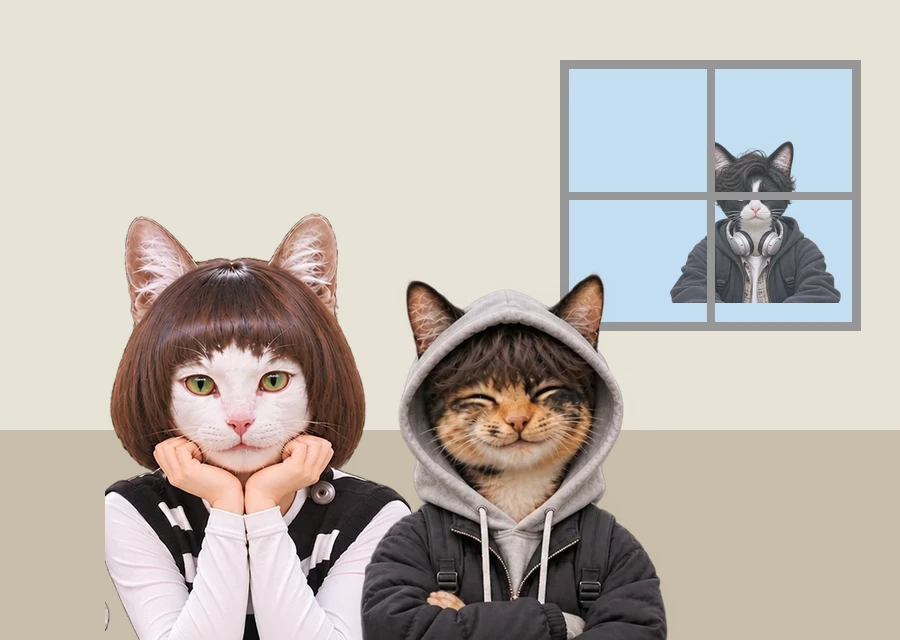
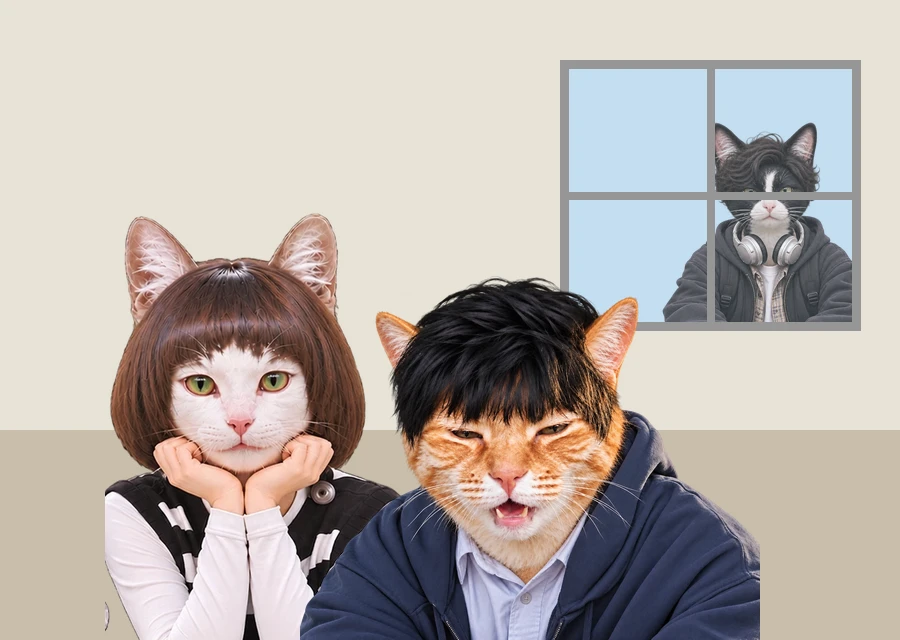
시유 원래 이미지 복구, 새 이미지는 신전이로 / 시혁 크기·원경·두 사람 이미지 새로, 단체 사진 시혁 위치 / 장소 정보 목록(인사례·린튼·쪽문·56주년), 린튼공원 설명 / 4남매 크게 / 미니게임 경고 고정
Claude-Session: https://claude.ai/code/session_01QyUschkezPNteRQgoBSBiz

Changed region(s): [[0.3111, 0.1875, 0.9644, 1.0]]

diff --git a/src/data/m56Scene.js b/src/data/m56Scene.js
@@ -4,6 +4,7 @@ const T = 'talk/'
 const M = `${T}m56/`
 
 const W = (s) => ({ wait: s })
+const pose = (who, p, dur = 0.3) => ({ pose: who, p, dur })
 const show = (who, o = {}) => ({ show: who, pose: 'base', ...o })
 const hide = (who, o = {}) => ({ hide: who, ...o })
 const cam = (o) => ({ cam: o })
@@ -45,7 +46,8 @@ export const M56 = {
   startBg: 'gate',
   cast: {
     // 화면 오른쪽, 기념관 입구 근처에 앉아 있음
-    jeon: { name: '신전이', title: '56주년 기념관 앞 대선배 · 학번 비공개', folder: `${M}jeon/`, fallback: `${M}jeon.webp`, x: 380, bottom: 170, w: 360 },
+    // 새 신전이 (정면 · 미소 · 씁쓸 — 파일 이름은 '시유…'로 올라온 이미지)
+    jeon: { name: '신전이', title: '56주년 기념관 앞 대선배 · 학번 비공개', folder: `${M}jeon/`, ext: 'webp', fallback: `${M}jeon.webp`, x: 400, bottom: 120, w: 520 },
   },
   walkers: [
     { src: `${T}hall/npc1.webp`, h: 230, bottom: 300, dur: 22, delay: -6, dir: 1 },
@@ -99,14 +101,14 @@ export const M56 = {
       before: [cam({ zoom: 1.16, on: 'jeon', dur: 0.8, wait: false })],
     },
     { who: 'me', text: '혹시… 선배님이세요?' },
-    { who: 'jeon', text: '대선배지.' },
+    { who: 'jeon', text: '대선배지.', before: [pose('jeon', 'smile')] },
     { who: 'jeon', text: '예전엔 나 보러 일부러 찾아오는 애들도 많았어. 사진도 찍어 가고, 간식도 주고.' },
     { who: 'me', text: '네? 왜요?' },
-    { who: 'jeon', text: '내가 인기가 좀 많아.' },
+    { who: 'jeon', text: '내가 인기가 좀 많아.', before: [pose('jeon', 'smile')] },
     { who: 'me', text: '(…스스로 저렇게 말하는 사람은 처음 봐.)' },
     { who: 'jeon', text: '출석률은 또 얼마나 좋은데. 비가 와도 눈이 와도 매일 여기 있었어.' },
     { who: 'me', text: '…학점은요?' },
-    { who: 'jeon', text: '그건 별개지.', after: [W(0.8)] },
+    { who: 'jeon', text: '그건 별개지.', before: [pose('jeon', 'smile')], after: [W(0.8)] },
     { who: 'me', text: '(출석률이랑 학점은 별개구나….)' },
 
     // ── SCENE 03. 대선배의 대학생활 꿀팁 ──
@@ -114,18 +116,19 @@ export const M56 = {
     {
       who: 'jeon',
       text: '첫째, 56주년 기념관에는 리클라이너가 있어서 잠도 잘 수 있어. 학교에 몇 안 되는 수면 시설이니까 알아 둬.',
+      after: [{ list: { title: '56주년 기념관', items: ['리클라이너가 있는 휴게 공간 (학교에 몇 안 되는 수면 시설)'] } }],
     },
     {
       who: 'jeon',
       text: '둘째, 여기는 생각보다 행사가 많아서, 운만 좋으면 가끔 맛있는 것도 줘.',
-      after: [W(0.5)],
+      after: [{ list: { title: '56주년 기념관', items: ['리클라이너가 있는 휴게 공간 (학교에 몇 안 되는 수면 시설)', '행사가 자주 열리는 곳'] } }, W(0.5)],
     },
     { who: 'me', text: '(출석률이 좋으신 이유가 이것 때문이었구나….)' },
     { who: 'jeon', text: '셋째, 교수님들 생각보다 다정하셔. 모르는 거 있으면 그냥 여쭤봐. 나도 교수님들이 많이 예뻐해 주셨거든.' },
-    { who: 'me', text: '선배님은 대체 학교에서 뭘 하고 다니신 거예요?' },
+    { who: 'me', text: '선배님은 대체 학교에서 뭘 하고 다니신 거예요?', before: [{ list: null }] },
     // 1초 정적 후 이름 공개 (NEW CHARACTER)
-    { who: 'jeon', text: '학교생활 열심히 했지. 주로 낮잠.', after: [W(1), { reveal: 'jeon', dur: 2 }] },
-    { who: 'jeon', text: '아, 나는 신전이야. 이름 기억해 줘.' },
+    { who: 'jeon', text: '학교생활 열심히 했지. 주로 낮잠.', before: [pose('jeon', 'smile')], after: [W(1), { reveal: 'jeon', dur: 2 }] },
+    { who: 'jeon', text: '아, 나는 신전이야. 이름 기억해 줘.', before: [pose('jeon', 'front')] },
     { who: 'me', text: '네, 신전이 선배님!' },
 
     // ── SCENE 04. 뜻밖의 졸업 소식 ──
@@ -146,8 +149,8 @@ export const M56 = {
       before: [bgm('volume', { vol: 0.015, dur: 3 })],
     },
     { who: 'me', text: '…그런 데가 있어요?' },
-    { who: 'jeon', text: '흠, 글쎄. 있지 않을까?', after: [W(0.8), cam({ zoom: 1, x: 0, dur: 2.5, wait: false })] },
-    { who: 'jeon', text: '그래도 막상 떠나려니까 좀 아쉽네.' },
+    { who: 'jeon', text: '흠, 글쎄. 있지 않을까?', before: [pose('jeon', 'bitter')], after: [W(0.8), cam({ zoom: 1, x: 0, dur: 2.5, wait: false })] },
+    { who: 'jeon', text: '그래도 막상 떠나려니까 좀 아쉽네.', before: [pose('jeon', 'bitter')] },
     // 1.2초 정적 · 지나가던 학생들이 천천히 화면 밖으로
     { who: 'jeon', text: '여기서 좋은 사람들을 참 많이 만났거든.', after: [W(1.2)] },
 
@@ -163,14 +166,14 @@ export const M56 = {
     },
     { who: 'jeon', text: '한참을 찾아와서 걱정해 주던 사람,', before: [{ flash: FLASH[1], dur: 1 }] },
     { who: 'jeon', text: '비 오는 날 우산 씌워 주던 사람….', before: [{ flash: FLASH[2], dur: 1 }] },
-    { who: 'jeon', text: '근데 그 사람들한테 고맙다는 말을 한 번도 제대로 못 했어.', before: [{ flash: null, dur: 1.2 }] },
+    { who: 'jeon', text: '근데 그 사람들한테 고맙다는 말을 한 번도 제대로 못 했어.', before: [pose('jeon', 'bitter'), { flash: null, dur: 1.2 }] },
     { who: 'me', text: '지금이라도 하시면 되죠.' },
-    { who: 'jeon', text: '그러게. 그럼… 네가 대신 전해 줄래?', after: [W(1), cam({ zoom: 1.15, on: 'jeon', dur: 1.4 })] },
+    { who: 'jeon', text: '그러게. 그럼… 네가 대신 전해 줄래?', before: [pose('jeon', 'smile')], after: [W(1), cam({ zoom: 1.15, on: 'jeon', dur: 1.4 })] },
     { who: 'jeon', text: '지금까지 나와 함께해 줘서 고마웠다고. 다들 덕분에, 여기서 지내는 게 참 좋았다고.' },
     { who: 'me', text: '선배님…?', after: [W(0.8)] },
     {
       who: 'jeon',
-      text: '아, 너 수업 늦겠다. 얼른 가.',
+      text: '아, 너 수업 늦겠다. 얼른 가.', before: [pose('jeon', 'smile')],
       // 음악이 잠깐 작아지고 휴대폰 알림
       before: [bgm('volume', { vol: 0.02, dur: 0.6 }), sfx('ding'), W(0.6), bgm('volume', { vol: 0.065, dur: 1.2 })],
     },

diff --git a/src/data/lintonScene.js b/src/data/lintonScene.js
@@ -43,13 +43,15 @@ const unblack = (dur) => ({ dark: dur, to: 0 }) // 암전 풀기
 
 export const LINTON = {
   bgm: 'play',
+  listSide: 'right', // 인물이 왼쪽에 있어서 정보 목록은 오른쪽
   summary: {
     name: '린튼공원',
     story: '시유 선배를 찾다가 커플 이고등 · 턱시혁의 조별 과제 사진 소동에 휘말렸고, 선배와 함께 빠져나와 참치김밥을 건넸다.',
     info: [
-      '벤치가 많고 나무 그늘이 좋아, 캠퍼스 안에서 쉬어 가기 좋은 공원이에요.',
-      '한남대학교 설립자 윌리엄 린튼(인돈) 선교사의 이름을 땄어요.',
-      '점심시간이나 공강 시간에 학생들이 자주 머무는 곳이에요.',
+      '초대 총장인 윌리엄 린튼(한국명 인돈) 선교사를 기리기 위해 그분의 이름을 딴 공원이에요.',
+      '바로 옆에 오정못과 울창한 수목, 벤치, 정자가 있어 학생들의 쉼터로 사랑받고 있어요.',
+      '동아리, 취업박람회, 축제 프로그램 등 학생 행사가 많이 열려요.',
+      '린튼공원과 오정못 사이의 작은 다리는 인돈 선교사의 부인 인사례(샬롯)의 이름을 붙여 「사례교」라고 해요.',
     ],
     use: ['kimbap'], // 건너뛰면 참치김밥은 전달한 것으로
     likes: { siyu: 2, goeun: 1 },
@@ -68,14 +70,14 @@ export const LINTON = {
   main: ['sihyuk', 'goeun'], // 시혁·고등 대사는 기본 방향, 시유와 플레이어 대사는 대화창 좌우 반전
   cast: {
     // 멀리서 본 두 사람 (고등시혁대화.png) — 대화하지 않는 원경에서만
-    couple: { name: '', folder: `${T}couple/`, fallback: `${T}couple.webp`, x: -40, bottom: 5, w: 810 },
+    couple: { name: '', folder: `${T}couple/`, fallback: `${T}couple.webp`, x: -140.5, bottom: -10, w: 719 }, // 고등 + 새 시혁 (개별 이미지와 같은 자리)
     // 대화 중 개별 이미지 (턱시혁.png · 이고등.png)
-    sihyuk: { name: '턱시혁', folder: `${T}sihyuk/`, ext: 'webp', fallback: `${T}sihyuk.webp`, x: -190, bottom: -10, w: 470 }, // 시혁정면1 · 시혁대화
+    sihyuk: { name: '턱시혁', folder: `${T}sihyuk/`, ext: 'webp', fallback: `${T}sihyuk.webp`, x: -210, bottom: -10, w: 580 }, // 시혁정면1 · 시혁대화
     goeun: { name: '이고등', folder: `${T}goeun/`, fallback: `${T}goeun.webp`, x: 110, bottom: -10, w: 218 },
     // 대화 중 시유: 시유전신.png (화면 오른쪽, 다리 아래는 화면 밖). 포즈 이미지가 생기면 siyu/<포즈>.png
-    siyu: { name: '김시유', known: true, folder: `${T}siyu-l/`, ext: 'webp', fallback: `${T}siyu-full.webp`, x: 430, bottom: -429, w: 718 }, // 시유정면 · 미소 · 씁쓸
+    siyu: { name: '김시유', known: true, folder: `${T}siyu/`, fallback: `${T}siyu-full.webp`, x: 534, bottom: -429, w: 530 },
     // 걸어가며 지나가는 시유 (시유옆모습.png) — left: 왼쪽을 보고 걸음(반전), right: 오른쪽으로 걸음
-    siyuSide: { name: '김시유', known: true, folder: `${T}siyu-side/`, as: 'siyu', fallback: `${T}siyu-side.webp`, x: 430, bottom: -429, w: 713, flip: ['left'] },
+    siyuSide: { name: '김시유', known: true, folder: `${T}siyu-side/`, as: 'siyu', fallback: `${T}siyu-side.webp`, x: 534, bottom: -429, w: 533, flip: ['left'] },
   },
   photo: { src: `${T}photo-group.webp`, fallback: `${T}placeholder/photo.webp`, face: [0.589, 0.629], window: [0.844, 0.312] },
   bagImg: { src: `${T}kimbap.webp` }, // 참치김밥.png
@@ -170,9 +172,24 @@ export const LINTON = {
     { who: 'sihyuk', text: '턱시혁.', after: [reveal('sihyuk'), { reward: `${T}id-sihyuk.png`, label: '턱시혁 학생증 획득!' }] },
     {
       who: 'goeun',
-      text: '저희는 공강마다 여기 있어요. 린튼공원은 벤치도 많고 그늘이 좋아서, 쉬기엔 학교에서 여기가 최고거든요.',
+      text: '저희는 공강마다 여기 있어요. 린튼공원은 벤치도 많고 바로 옆에 오정못도 있어서, 쉬기엔 학교에서 여기가 최고거든요.',
+      // 고등이 옆에 린튼공원 정보가 하나씩
+      after: [
+        {
+          list: {
+            title: '린튼공원',
+            items: [
+              '초대 총장 윌리엄 린튼(한국명 인돈) 선교사를 기리는 공원',
+              '오정못 · 울창한 나무 · 벤치 · 정자가 있는 학생들의 쉼터',
+              '동아리 행사 · 취업박람회 · 축제가 열리는 곳',
+              '오정못의 작은 다리 「사례교」 — 인돈 선교사의 부인 인사례(샬롯)의 이름',
+            ],
+            gap: 0.7,
+          },
+        },
+      ],
     },
-    { who: 'me', text: '두 분 사이좋아 보이세요.' },
+    { who: 'me', text: '두 분 사이좋아 보이세요.', before: [{ list: null }] },
     { who: 'goeun', text: '얘가 나 따라다니는 거지, 뭐.', after: [pose('goeun', 'lean'), move('goeun', 25, 0.5), pose('sihyuk', 'look'), pose('goeun', 'smile')] },
 
     // ── SCENE 05. 하필 지금? ──

diff --git a/src/data/gateScene.js b/src/data/gateScene.js
@@ -51,6 +51,7 @@ export const GATE = {
       '진앤키노는 늘 "청소 중"…. 무엇을 파는 곳인지 아무도 몰라요.',
     ],
   },
+  listSide: 'center', // 남매가 양옆에 있어서 정보 목록은 가운데 위
   solo: ['ju1', 'ju2', 'ju3', 'ju4'], // 말하는 한 명만: 치주일 · 치주이는 왼쪽, 치주삼 · 치주사는 오른쪽에서 들어옴
   main: ['ju1', 'ju2', 'ju3', 'ju4', 'shop'], // 4남매 대사는 기본 방향, 플레이어는 반전
   bgs: {
@@ -59,10 +60,10 @@ export const GATE = {
   },
   startBg: 'gate',
   cast: {
-    ju1: { name: '치주일', folder: `${G}ju1/`, fallback: `${G}ju1.webp`, x: -330, bottom: -40, w: 585, side: 'left' },
-    ju2: { name: '치주이', folder: `${G}ju2/`, fallback: `${G}ju2.webp`, x: -330, bottom: -40, w: 585, side: 'left' },
-    ju3: { name: '치주삼', folder: `${G}ju3/`, fallback: `${G}ju3.webp`, x: 330, bottom: -40, w: 585, side: 'right' },
-    ju4: { name: '치주사', folder: `${G}ju4/`, fallback: `${G}ju4.webp`, x: 330, bottom: -40, w: 585, side: 'right' },
+    ju1: { name: '치주일', folder: `${G}ju1/`, fallback: `${G}ju1.webp`, x: -330, bottom: -260, w: 780, side: 'left' },
+    ju2: { name: '치주이', folder: `${G}ju2/`, fallback: `${G}ju2.webp`, x: -330, bottom: -260, w: 780, side: 'left' },
+    ju3: { name: '치주삼', folder: `${G}ju3/`, fallback: `${G}ju3.webp`, x: 330, bottom: -260, w: 780, side: 'right' },
+    ju4: { name: '치주사', folder: `${G}ju4/`, fallback: `${G}ju4.webp`, x: 330, bottom: -260, w: 780, side: 'right' },
     shop: { name: '진앤키노', known: true, folder: `${G}shop/`, fallback: `${G}ju1.webp`, x: 0, bottom: -2000, w: 10 },
   },
 
@@ -126,11 +127,11 @@ export const GATE = {
       text: '네. 저쪽부터 첫째 치주일, 저는 둘째 치주이, 셋째 치주삼, 막내 치주사예요.',
       after: [reveal('ju1', 0.9), reveal('ju2', 0.9), reveal('ju3', 0.9), reveal('ju4', 0.9), { reward: `${T}id-siblings.png`, label: '4남매 학생증 획득!' }],
     },
-    { who: 'ju3', text: '아직 메뉴 못 정하셨으면 도스마스 가세요. 부리또 괜찮아요.' },
-    { who: 'ju2', text: '쯔보 오렌지치킨도 맛있어요. 좀 색다른 거 먹고 싶을 때 추천해요.' },
-    { who: 'ju1', text: '면 좋아하시면 면식당도 괜찮고요.' },
-    { who: 'ju4', text: '…몽심 레몬 마들렌도요.' },
-    { who: 'ju1', text: '야, 35분 남았어.', before: [sfx('ding'), W(0.4)] },
+    { who: 'ju3', text: '아직 메뉴 못 정하셨으면 도스마스 가세요. 부리또 괜찮아요.', after: [{ list: { title: '쪽문 맛집', items: ['도스마스 · 부리또'] } }] },
+    { who: 'ju2', text: '쯔보 오렌지치킨도 맛있어요. 좀 색다른 거 먹고 싶을 때 추천해요.', after: [{ list: { title: '쪽문 맛집', items: ['도스마스 · 부리또', '쯔보 · 오렌지치킨'] } }] },
+    { who: 'ju1', text: '면 좋아하시면 면식당도 괜찮고요.', after: [{ list: { title: '쪽문 맛집', items: ['도스마스 · 부리또', '쯔보 · 오렌지치킨', '면식당 · 라멘'] } }] },
+    { who: 'ju4', text: '…몽심 레몬 마들렌도요.', after: [{ list: { title: '쪽문 맛집', items: ['도스마스 · 부리또', '쯔보 · 오렌지치킨', '면식당 · 라멘', '몽심 · 레몬 마들렌 (디저트)'] } }] },
+    { who: 'ju1', text: '야, 35분 남았어.', before: [{ list: null }, sfx('ding'), W(0.4)] },
     { who: 'ju3', text: '그럼 도스마스 가자니까.' },
     { who: 'ju4', text: '…몽심은?' },
     { who: 'ju1', text: '수업 끝나고 가자.' },

diff --git a/src/data/dialogues.js b/src/data/dialogues.js
@@ -50,9 +50,9 @@ export const DIALOGUES = {
         '건물 앞 벤치는 오후에 햇볕이 잘 들어요.',
       ],
     },
+    listSide: 'right',
     main: ['???', '김시유'], // 메인 캐릭터(시유) 대사만 기본 방향, 나머지는 대화창 좌우 반전
-    // 새 시유 (시유정면 · 시유미소 · 시유씁쓸 가슴 위 클로즈업). 누운 자세만 예전 그림(siyu/lying*.png)
-    character: { folder: `${T}siyu-bust/`, ext: 'webp', fallback: `${T}siyu-bust/base.webp`, lying: `${T}siyu/` },
+    character: { folder: `${T}siyu/`, fallback: `${T}char-siyu-v2.webp` },
     // 보조 인물 (실루엣): 화면 오른쪽 가장자리에 크게, 일부만 보이게
     extras: { student: { src: `${T}student.webp`, opacity: 0.55 } },
     typeSpeed: 35, // ms/글자
@@ -68,11 +68,11 @@ export const DIALOGUES = {
       { who: '???', text: '응, 이제 딱 좋다. 근데 너 여기 처음 와? 아까부터 두리번거리던데.', before: [W(0.5)] },
       { who: '나', text: '네. 학교가 아직 익숙하지 않아서요.' },
       // SCENE 02. 11번 건물 소개 (학생이 말 걸기 전까지 계속 누워 있음)
-      { who: '???', text: '그럼 여긴 기억해 둬. 1층에 인쇄실, 문구점, 서점, 편의점도 있고.' },
-      { who: '???', text: '일자리센터랑 쉴 곳도 있어. 웬만한 건 여기서 해결돼.', page: true },
+      { who: '???', text: '그럼 여긴 기억해 둬. 1층에 인쇄실, 문구점, 서점, 편의점도 있고.', after: [{ list: { title: '인사례교양동 1층', items: ['인쇄실', '문구점', '서점', '편의점'], gap: 0.5 } }] },
+      { who: '???', text: '일자리센터랑 쉴 곳도 있어. 웬만한 건 여기서 해결돼.', page: true, after: [{ list: { title: '인사례교양동 1층', items: ['인쇄실', '문구점', '서점', '편의점', '일자리센터', '쉼터'], gap: 0.4 } }] },
       { who: '???', text: '오후엔 이 벤치에 햇빛도 잘 들고. 사람만 좀 덜 지나가면 딱인데.', before: [W(0.4)], after: [W(1.2)] },
       // SCENE 03. 이름 공개 (학생은 목소리만) — 학생이 말을 걸자 벌떡 일어남
-      { who: '학생들', text: '어, 시유야. 여기 있었네?', before: [{ enter: 'student', dur: 0.5 }], after: [W(0.2), { rise: 'voice', dur: 0.35 }] },
+      { who: '학생들', text: '어, 시유야. 여기 있었네?', before: [{ list: null }, { enter: 'student', dur: 0.5 }], after: [W(0.2), { rise: 'voice', dur: 0.35 }] },
       { who: '???', text: '어, 안녕! 수업 끝났어?' },
       { who: '학생들', text: '응. 너 또 여기서 자고 있었냐?' },
       { who: '???', text: '아니거든? 눈만 감고 있었어.', before: [W(0.3), P('frown')] },

diff --git a/src/components/DialogScene.jsx b/src/components/DialogScene.jsx
@@ -30,6 +30,7 @@ export default function DialogScene({ dialog, onClose }) {
   const [profile, setProfile] = useState(null) // NEW CHARACTER 카드
   const [skipOpen, setSkipOpen] = useState(false) // 건너뛰기 정리 창
   const [likePop, setLikePop] = useState(null)
+  const [list, setList] = useState(null) // 옆에 하나씩 들어오는 장소 정보
   const likesRef = useRef({})
   const [complete, setComplete] = useState(null)
   const completeResRef = useRef(null)
@@ -145,6 +146,17 @@ export default function DialogScene({ dialog, onClose }) {
         } else if (a.exit) {
           const el = charRef.current
           if (el) await gsap.to(el, { x: `+=${a.exit}`, opacity: 0, duration: a.dur ?? 0.7, ease: 'power1.in' })
+        } else if (a.list !== undefined) {
+          if (!a.list) setList(null)
+          else {
+            for (let i = 0; i <= a.list.items.length; i++) {
+              setList({ title: a.list.title, items: a.list.items.slice(0, i) })
+              if (i < a.list.items.length) {
+                if (i > 0) playSfx('pop')
+                await sleep(i === 0 ? 0.2 : (a.list.gap ?? 0.5))
+              }
+            }
+          }
         } else if (a.like) {
           if (!LIKES_ON) continue // 호감도 보류 중
           likesRef.current[a.like] = (likesRef.current[a.like] || 0) + (a.n ?? 1)
@@ -339,6 +351,19 @@ export default function DialogScene({ dialog, onClose }) {
           likes={likesRef.current}
           onDone={() => completeResRef.current?.()}
         />
+      )}
+      {list && (
+        <div className={`cast__list${dialog.listSide ? ` is-${dialog.listSide}` : ''}`}>
+          {list.title && <p className="cast__list-title">{list.title}</p>}
+          <ol>
+            {list.items.map((t, i) => (
+              <li key={t}>
+                <span className="cast__list-no">{i + 1}</span>
+                {t}
+              </li>
+            ))}
+          </ol>
+        </div>
       )}
       {likePop && <LikePop key={likePop.k} who={likePop.who} n={likePop.n} />}
       {skipOpen && dialog.summary && (

diff --git a/src/components/CastScene.css b/src/components/CastScene.css
@@ -844,3 +844,55 @@
     transform: scale(1);
   }
 }
+
+/* 목록을 오른쪽에 (인물이 왼쪽에 있는 장면) */
+.cast__list.is-right {
+  left: auto;
+  right: max(16px, calc(50% - 640 * var(--u)));
+  align-items: flex-end;
+}
+.cast__list.is-right ol {
+  align-items: flex-end;
+}
+.cast__list.is-right li {
+  animation-name: cast-list-in-r;
+}
+@keyframes cast-list-in-r {
+  from {
+    opacity: 0;
+    transform: translateX(60px);
+  }
+}
+.cast__list ol {
+  align-items: flex-start;
+}
+
+/* 목록을 가운데 위에 */
+.cast__list.is-center {
+  left: 50%;
+  top: calc(60 * var(--u));
+  translate: -50% 0;
+  display: flex;
+  flex-direction: column;
+  align-items: center;
+}
+.cast__list.is-center ol {
+  align-items: center;
+}
+.cast__list.is-center li {
+  animation-name: cast-list-in-c;
+}
+@keyframes cast-list-in-c {
+  from {
+    opacity: 0;
+    transform: translateY(-20px);
+  }
+}
+.cast__list.is-right {
+  display: flex;
+  flex-direction: column;
+}
+.cast__list li {
+  max-width: calc(620 * var(--u));
+  min-width: 0;
+}

diff --git a/src/components/CastScene.jsx b/src/components/CastScene.jsx
@@ -807,7 +807,7 @@ export default function CastScene({ dialog, onClose, startAt }) {
           />
         )}
         {list && (
-          <div className="cast__list">
+          <div className={`cast__list${dialog.listSide ? ` is-${dialog.listSide}` : ''}`}>
             {list.title && <p className="cast__list-title">{list.title}</p>}
             <ol>
               {list.items.map((t, i) => (

diff --git a/src/components/FlyerGame.css b/src/components/FlyerGame.css
@@ -265,7 +265,6 @@
   background: rgba(229, 36, 59, 0.85);
   color: #fff;
   font-size: 17px;
-  animation: fg-pulse 1.2s ease-in-out infinite;
 }
 .fg__btn {
   min-width: 150px;
